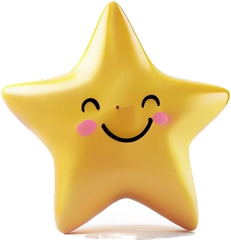
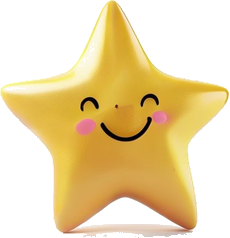
aventura-das-direcoes: placa de madeira (Gemini) na pista da seta + estrela sem sombra branca embaixo
- Pista 5: emoji de seta -> imagem placa_seta.png (placa de madeira com seta, estilo
  massinha). Flip por CSS cobre sentido esquerda.
- estrela.png: removida a sombra branca opaca na parte de baixo do recorte.

Claude-Session: https://claude.ai/code/session_01AsX7hAnJR4hMzzYygTzYCg

diff --git a/_lote/aventura-das-direcoes/index.html b/_lote/aventura-das-direcoes/index.html
@@ -52,8 +52,10 @@ img{max-width:100%;}
 .vert{width:200px;margin:6px auto;}
 .vert div{padding:8px;}
 .vert img{height:120px;}
-/* seta */
+/* seta = placa de madeira (imagem) */
 .setaimg{font-size:120px;line-height:1;display:inline-block;color:#e07a1f;text-shadow:0 3px 0 #ffcf8a;}
+.cena .placaseta{position:absolute;left:50%;top:50%;height:216px;-webkit-transform:translate(-50%,-50%);transform:translate(-50%,-50%);-webkit-filter:drop-shadow(0 6px 8px rgba(90,50,10,.28));filter:drop-shadow(0 6px 8px rgba(90,50,10,.28));}
+.cena .placaseta.flip{-webkit-transform:translate(-50%,-50%) scaleX(-1);transform:translate(-50%,-50%) scaleX(-1);}
 /* botoes */
 .btn{
   display:inline-block;font-family:inherit;font-size:22px;font-weight:bold;
@@ -283,7 +285,7 @@ function telaPista(){
     h+='<div class="par"><span class="cel"><img src="img/'+q.esq+'.png" alt="esquerda"><span>&#9668; lado de cá</span></span>';
     h+='<span class="cel"><img src="img/'+q.dir+'.png" alt="direita"><span>lado de lá &#9658;</span></span></div>';
   }else if(q.tipo==="seta"){
-    h+='<div class="cena"><span class="setaimg">'+(q.aponta==="dir"?"&#10145;":"&#11013;")+'</span></div>';
+    h+='<div class="cena"><img class="placaseta'+(q.aponta==="dir"?"":" flip")+'" src="img/placa_seta.png" alt="placa de madeira com uma seta"></div>';
   }else{
     h+=cenaHTML(q);
   }